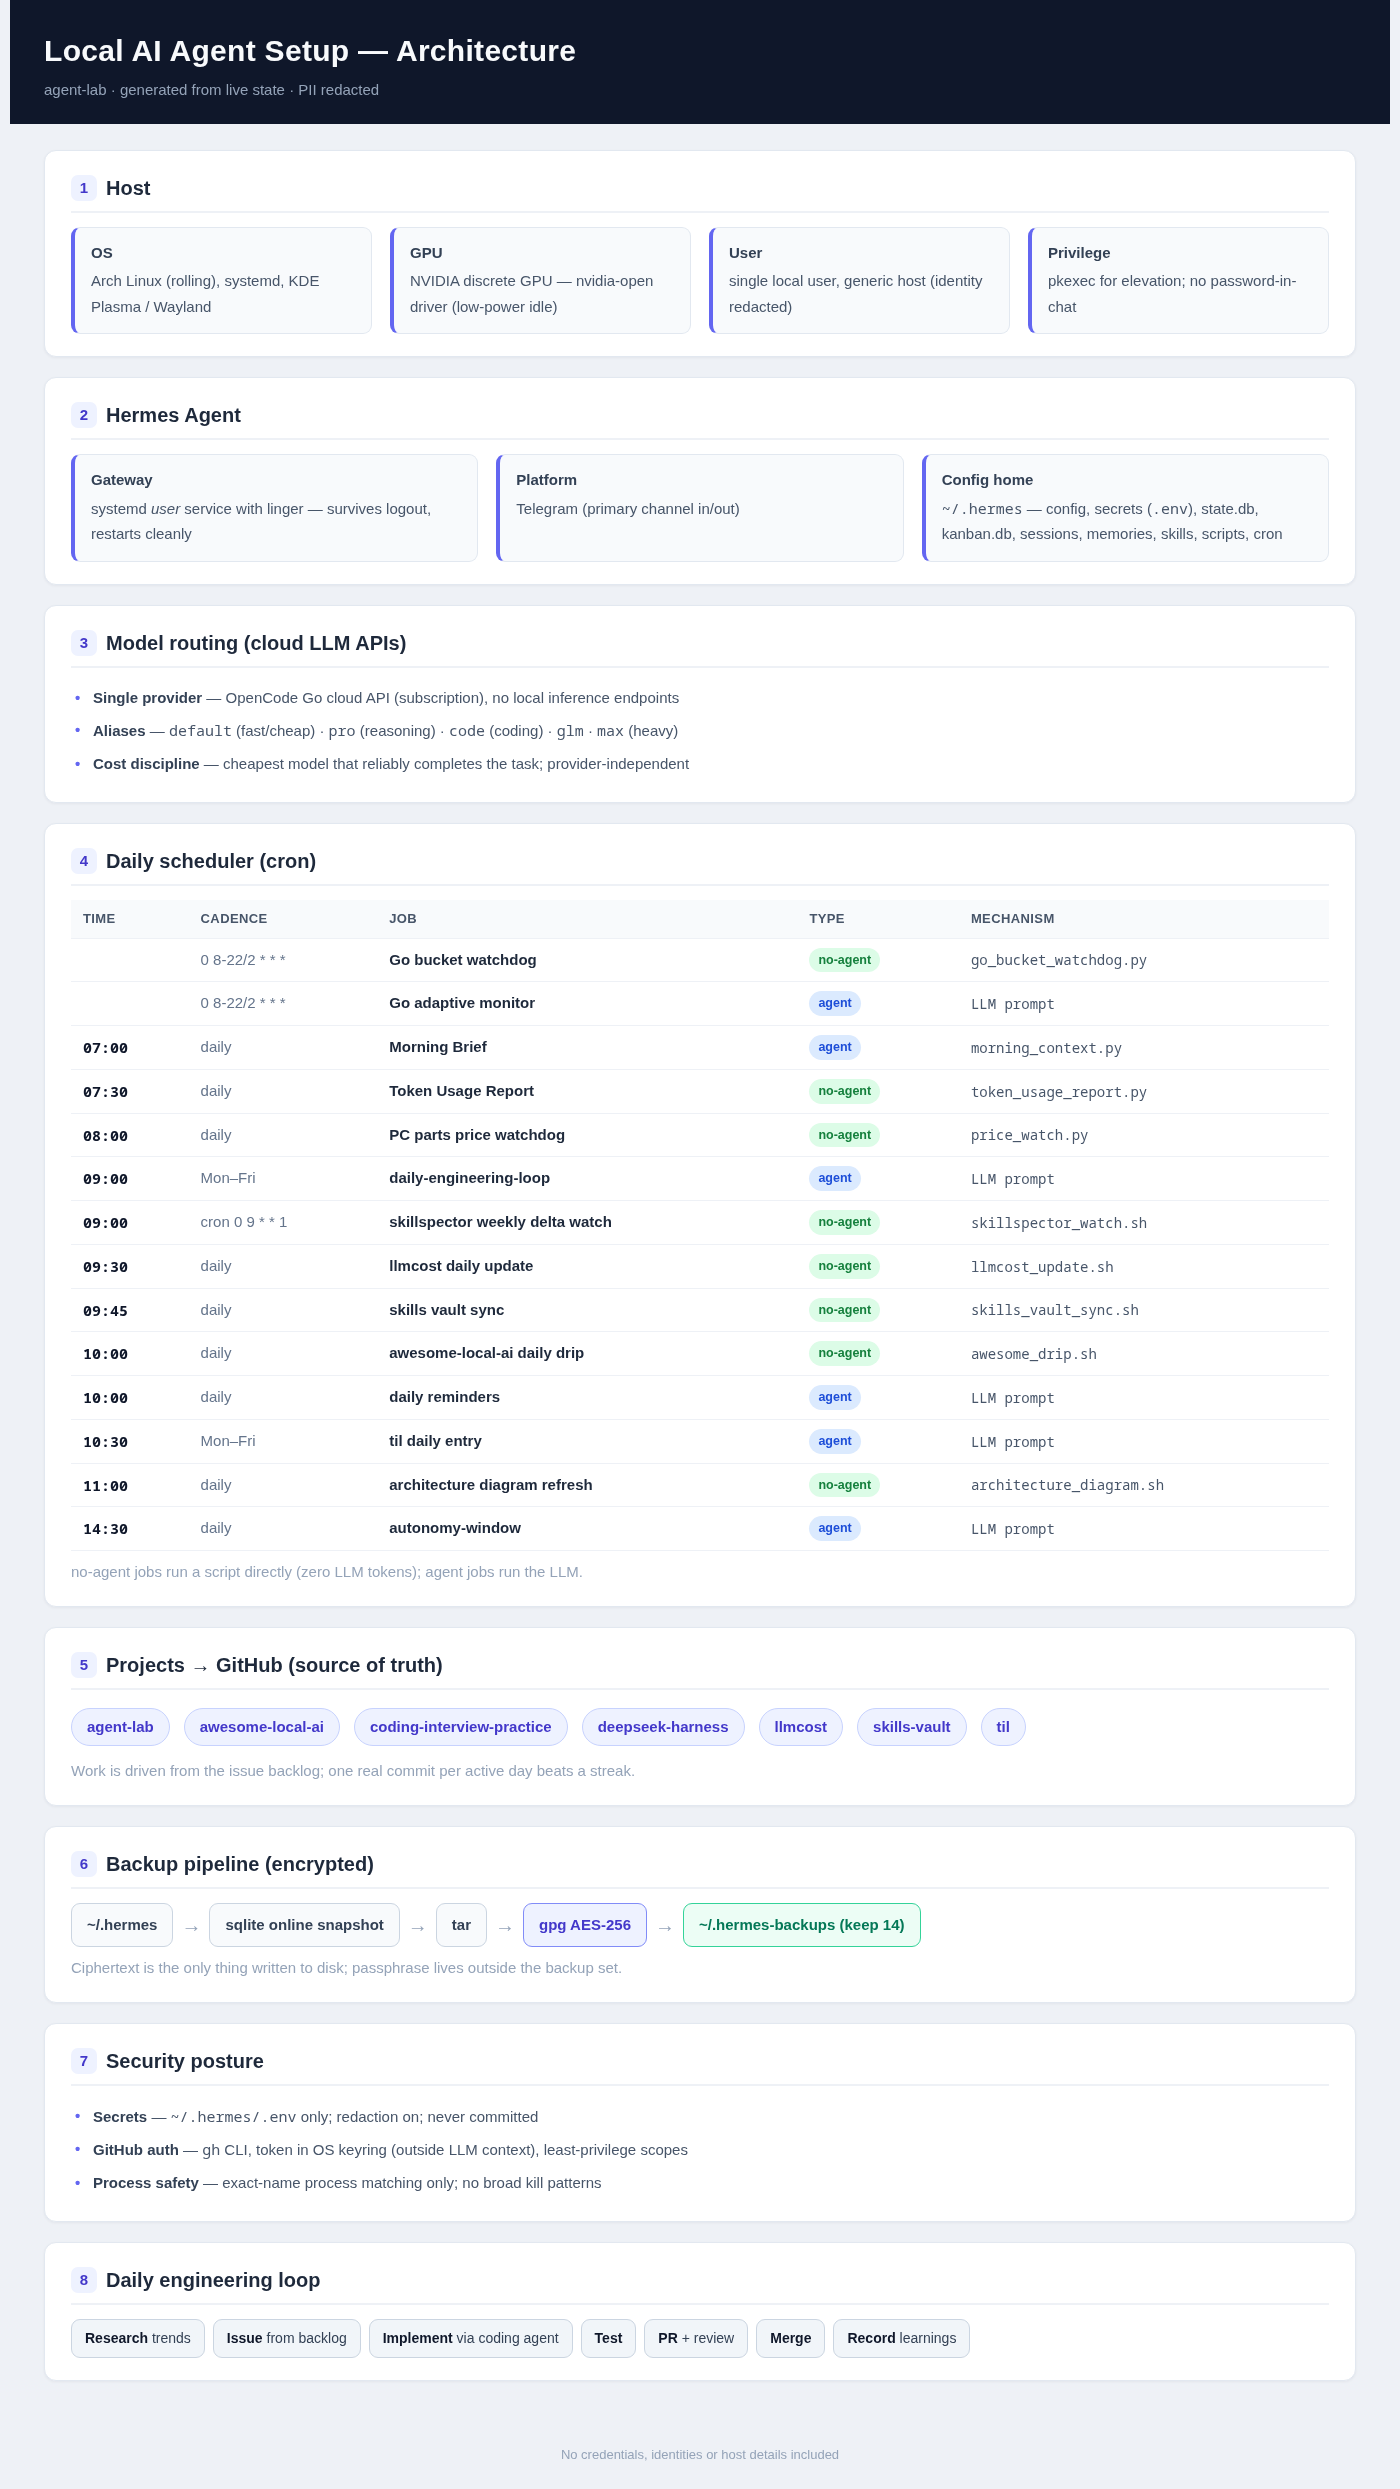
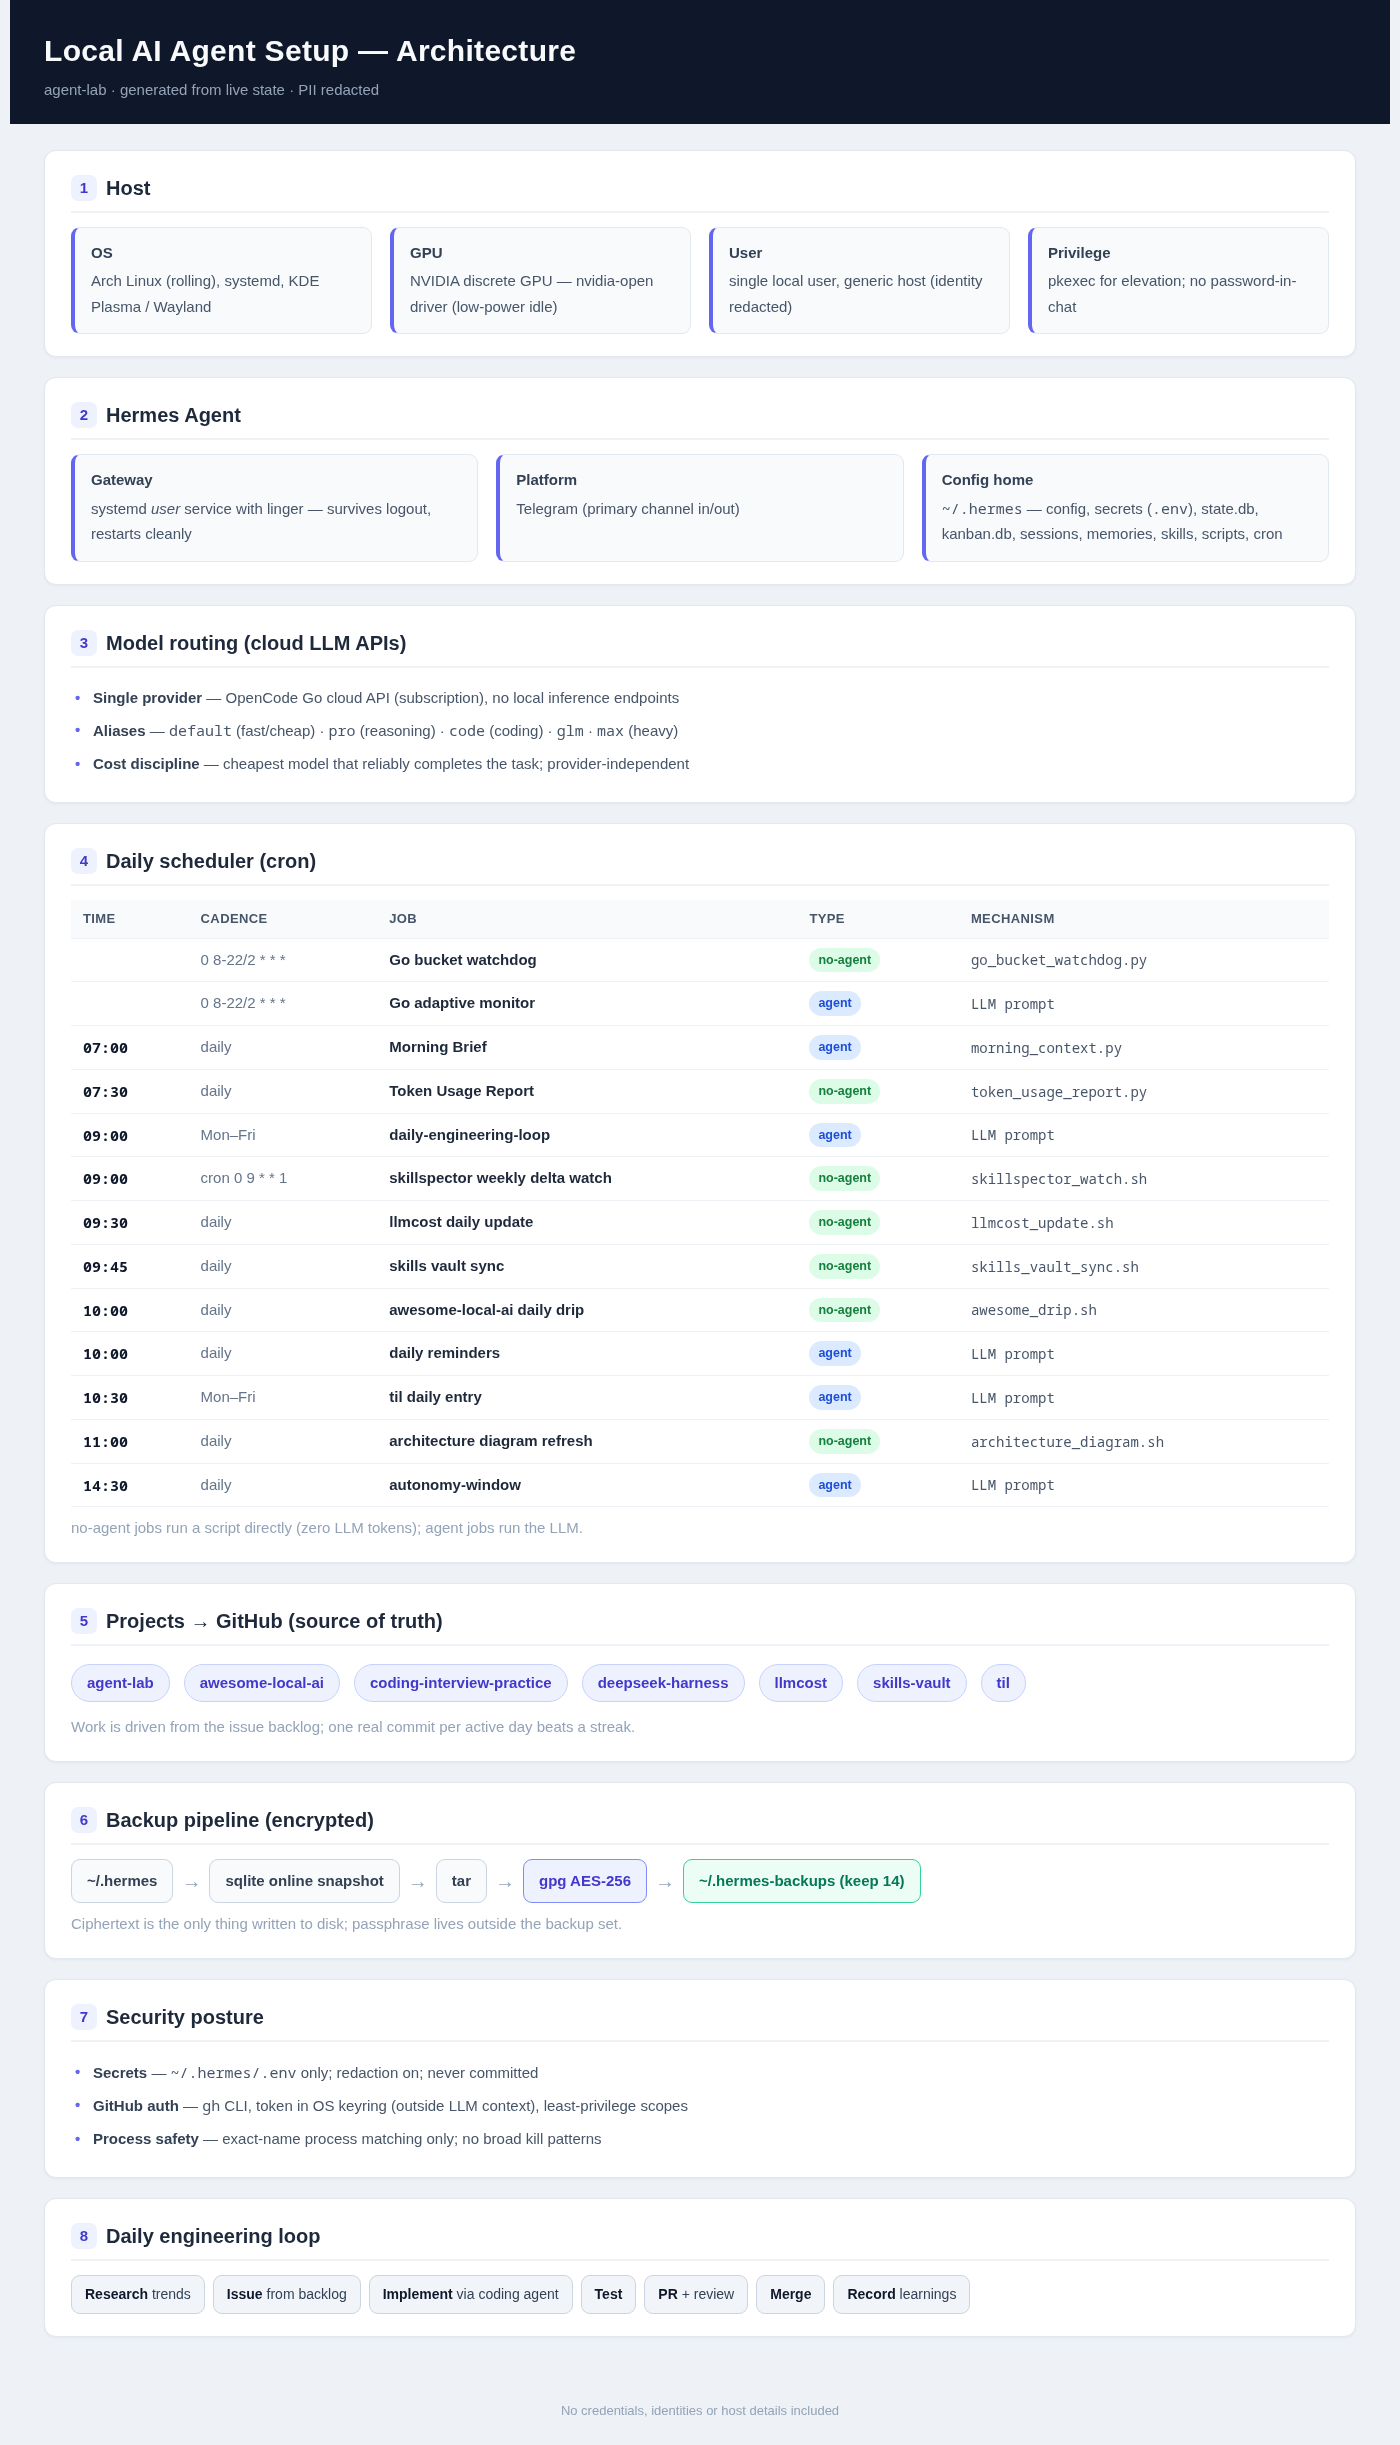
docs: refresh architecture diagram (auto)

diff --git a/assets/architecture.html b/assets/architecture.html
@@ -111,7 +111,7 @@
 
   <section>
     <h2><span class="num">4</span>Daily scheduler (cron)</h2>
-    <table><thead><tr><th>Time</th><th>Cadence</th><th>Job</th><th>Type</th><th>Mechanism</th></tr></thead><tbody><tr><td class='t'></td><td class='l'>0 8-22/2 * * *</td><td class='n'>Go bucket watchdog</td><td><span class='badge script' title='runs a script directly, zero LLM tokens'>no-agent</span></td><td class='m'>go_bucket_watchdog.py</td></tr><tr><td class='t'></td><td class='l'>0 8-22/2 * * *</td><td class='n'>Go adaptive monitor</td><td><span class='badge agent' title='runs the LLM agent'>agent</span></td><td class='m'>LLM prompt</td></tr><tr><td class='t'>07:00</td><td class='l'>daily</td><td class='n'>Morning Brief</td><td><span class='badge agent' title='runs the LLM agent'>agent</span></td><td class='m'>morning_context.py</td></tr><tr><td class='t'>07:30</td><td class='l'>daily</td><td class='n'>Token Usage Report</td><td><span class='badge script' title='runs a script directly, zero LLM tokens'>no-agent</span></td><td class='m'>token_usage_report.py</td></tr><tr><td class='t'>08:00</td><td class='l'>daily</td><td class='n'>PC parts price watchdog</td><td><span class='badge script' title='runs a script directly, zero LLM tokens'>no-agent</span></td><td class='m'>price_watch.py</td></tr><tr><td class='t'>09:00</td><td class='l'>Mon–Fri</td><td class='n'>daily-engineering-loop</td><td><span class='badge agent' title='runs the LLM agent'>agent</span></td><td class='m'>LLM prompt</td></tr><tr><td class='t'>09:00</td><td class='l'>cron 0 9 * * 1</td><td class='n'>skillspector weekly delta watch</td><td><span class='badge script' title='runs a script directly, zero LLM tokens'>no-agent</span></td><td class='m'>skillspector_watch.sh</td></tr><tr><td class='t'>09:30</td><td class='l'>daily</td><td class='n'>llmcost daily update</td><td><span class='badge script' title='runs a script directly, zero LLM tokens'>no-agent</span></td><td class='m'>llmcost_update.sh</td></tr><tr><td class='t'>09:45</td><td class='l'>daily</td><td class='n'>skills vault sync</td><td><span class='badge script' title='runs a script directly, zero LLM tokens'>no-agent</span></td><td class='m'>skills_vault_sync.sh</td></tr><tr><td class='t'>10:00</td><td class='l'>daily</td><td class='n'>awesome-local-ai daily drip</td><td><span class='badge script' title='runs a script directly, zero LLM tokens'>no-agent</span></td><td class='m'>awesome_drip.sh</td></tr><tr><td class='t'>10:00</td><td class='l'>daily</td><td class='n'>daily reminders</td><td><span class='badge agent' title='runs the LLM agent'>agent</span></td><td class='m'>LLM prompt</td></tr><tr><td class='t'>10:30</td><td class='l'>Mon–Fri</td><td class='n'>til daily entry</td><td><span class='badge agent' title='runs the LLM agent'>agent</span></td><td class='m'>LLM prompt</td></tr><tr><td class='t'>11:00</td><td class='l'>daily</td><td class='n'>architecture diagram refresh</td><td><span class='badge script' title='runs a script directly, zero LLM tokens'>no-agent</span></td><td class='m'>architecture_diagram.sh</td></tr><tr><td class='t'>14:30</td><td class='l'>daily</td><td class='n'>autonomy-window</td><td><span class='badge agent' title='runs the LLM agent'>agent</span></td><td class='m'>LLM prompt</td></tr></tbody></table>
+    <table><thead><tr><th>Time</th><th>Cadence</th><th>Job</th><th>Type</th><th>Mechanism</th></tr></thead><tbody><tr><td class='t'></td><td class='l'>0 8-22/2 * * *</td><td class='n'>Go bucket watchdog</td><td><span class='badge script' title='runs a script directly, zero LLM tokens'>no-agent</span></td><td class='m'>go_bucket_watchdog.py</td></tr><tr><td class='t'></td><td class='l'>0 8-22/2 * * *</td><td class='n'>Go adaptive monitor</td><td><span class='badge agent' title='runs the LLM agent'>agent</span></td><td class='m'>LLM prompt</td></tr><tr><td class='t'>07:00</td><td class='l'>daily</td><td class='n'>Morning Brief</td><td><span class='badge agent' title='runs the LLM agent'>agent</span></td><td class='m'>morning_context.py</td></tr><tr><td class='t'>07:30</td><td class='l'>daily</td><td class='n'>Token Usage Report</td><td><span class='badge script' title='runs a script directly, zero LLM tokens'>no-agent</span></td><td class='m'>token_usage_report.py</td></tr><tr><td class='t'>09:00</td><td class='l'>Mon–Fri</td><td class='n'>daily-engineering-loop</td><td><span class='badge agent' title='runs the LLM agent'>agent</span></td><td class='m'>LLM prompt</td></tr><tr><td class='t'>09:00</td><td class='l'>cron 0 9 * * 1</td><td class='n'>skillspector weekly delta watch</td><td><span class='badge script' title='runs a script directly, zero LLM tokens'>no-agent</span></td><td class='m'>skillspector_watch.sh</td></tr><tr><td class='t'>09:30</td><td class='l'>daily</td><td class='n'>llmcost daily update</td><td><span class='badge script' title='runs a script directly, zero LLM tokens'>no-agent</span></td><td class='m'>llmcost_update.sh</td></tr><tr><td class='t'>09:45</td><td class='l'>daily</td><td class='n'>skills vault sync</td><td><span class='badge script' title='runs a script directly, zero LLM tokens'>no-agent</span></td><td class='m'>skills_vault_sync.sh</td></tr><tr><td class='t'>10:00</td><td class='l'>daily</td><td class='n'>awesome-local-ai daily drip</td><td><span class='badge script' title='runs a script directly, zero LLM tokens'>no-agent</span></td><td class='m'>awesome_drip.sh</td></tr><tr><td class='t'>10:00</td><td class='l'>daily</td><td class='n'>daily reminders</td><td><span class='badge agent' title='runs the LLM agent'>agent</span></td><td class='m'>LLM prompt</td></tr><tr><td class='t'>10:30</td><td class='l'>Mon–Fri</td><td class='n'>til daily entry</td><td><span class='badge agent' title='runs the LLM agent'>agent</span></td><td class='m'>LLM prompt</td></tr><tr><td class='t'>11:00</td><td class='l'>daily</td><td class='n'>architecture diagram refresh</td><td><span class='badge script' title='runs a script directly, zero LLM tokens'>no-agent</span></td><td class='m'>architecture_diagram.sh</td></tr><tr><td class='t'>14:30</td><td class='l'>daily</td><td class='n'>autonomy-window</td><td><span class='badge agent' title='runs the LLM agent'>agent</span></td><td class='m'>LLM prompt</td></tr></tbody></table>
     <p class="muted" style="margin-top:10px">no-agent jobs run a script directly (zero LLM tokens); agent jobs run the LLM.</p>
   </section>
 
